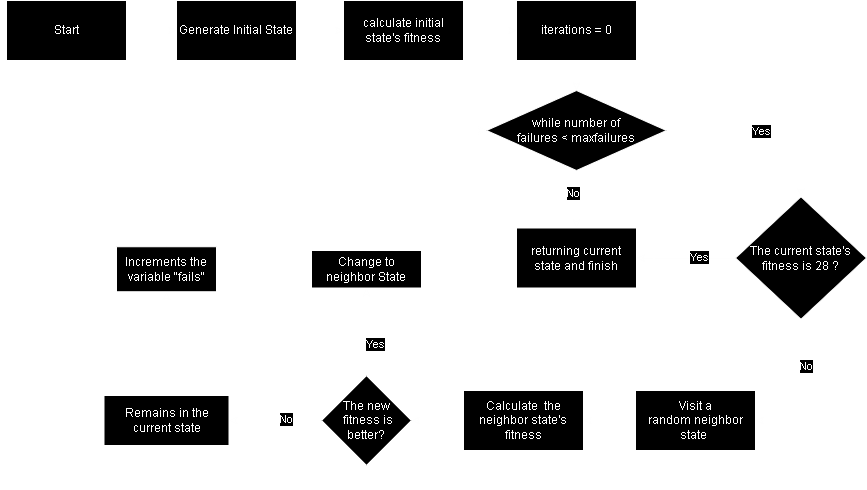
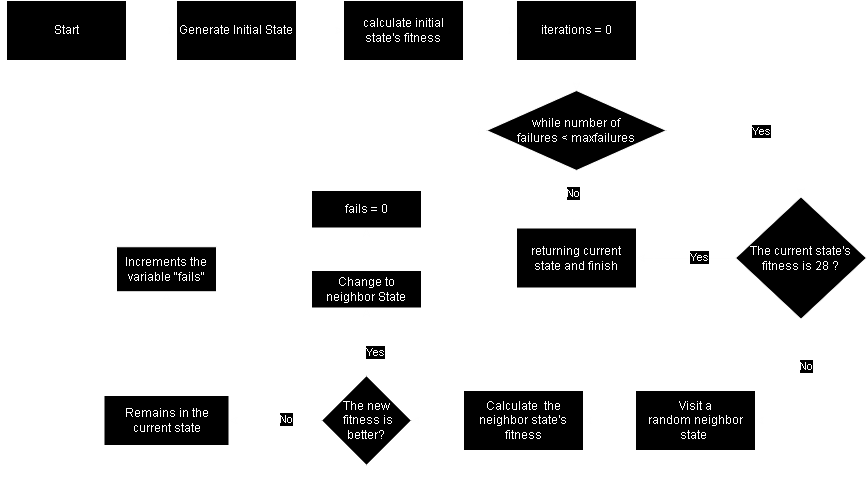
fix: corretion of the fluxogram and explanation

Changed region(s): [[0.3426, 0.3673, 0.4983, 0.6429], [0.4048, 0.6735, 0.4671, 0.7347]]

diff --git a/README.md b/README.md
@@ -35,6 +35,8 @@ Stochastic Hill Climbing is a variation of the Hill Climbing algorithm that make
 
 * Change to neighbor state: If the neighboring state's fitness is better, the algorithm switches to the neighboring state.
 
+* failures=0: At this point, since there was an improvement in the compared state, the variable failures should be reset. This way, we ensure that the algorithm will only stop if there are 500 consecutive failed iterations.
+
 * Increment the variable "fails": If the neighboring state does not improve the fitness, the algorithm increments the "fails" variable, recording an unsuccessful attempt.
 
 * Repeat: The process is repeated while the number of failures is less than the maximum allowed limit and the algorithm has not found a solution with a fitness equal to 28.
